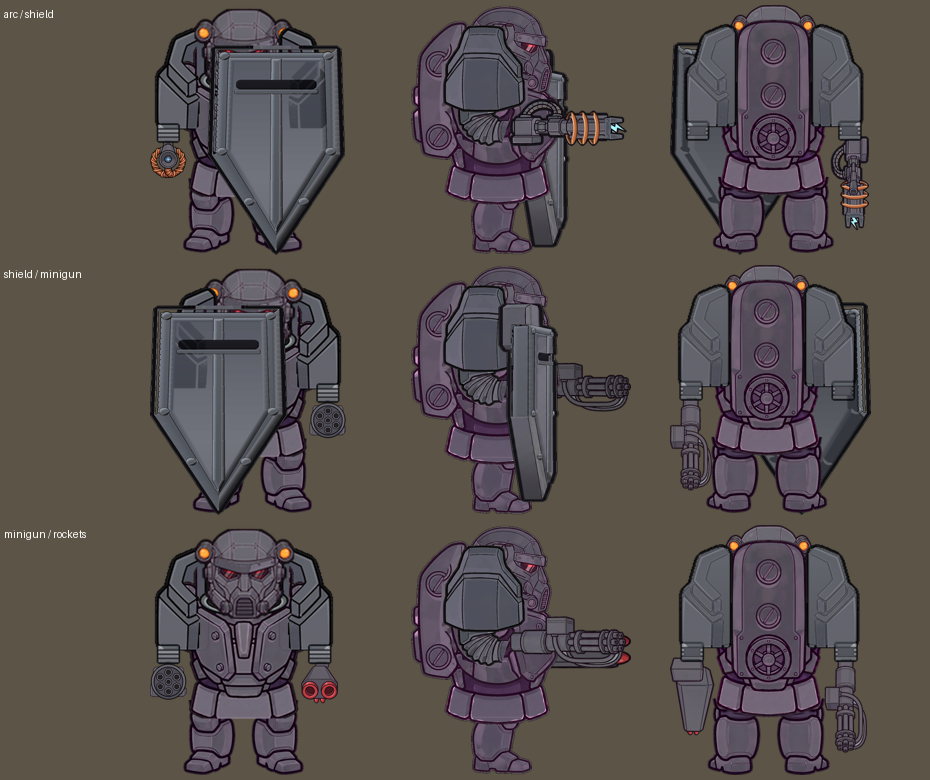
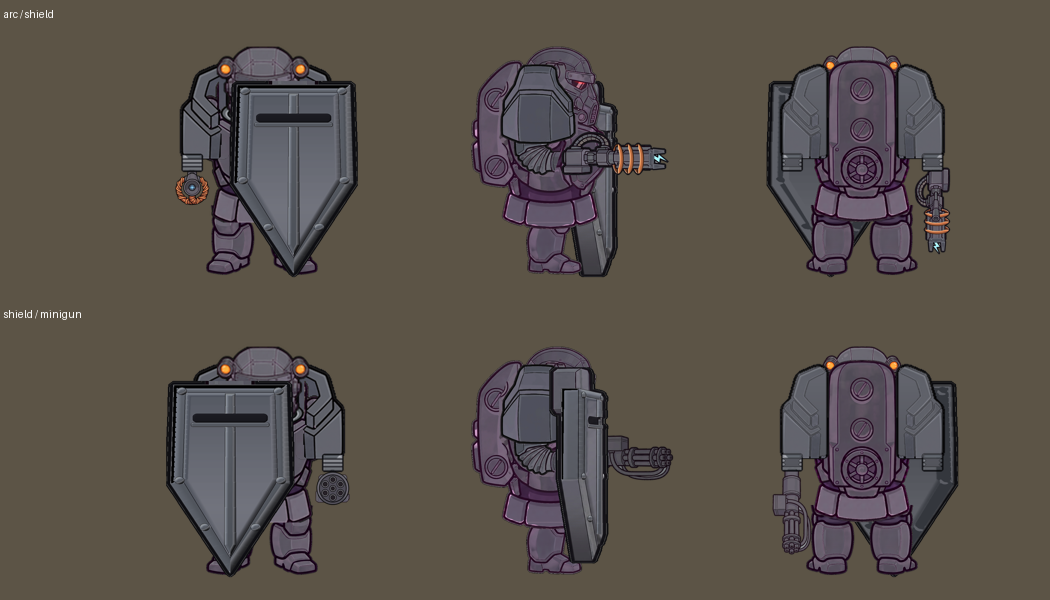
Bulwark shield: lamps clear of the plate, solid shield with its own paint mask, side view aligned
Claude-Session: https://claude.ai/code/session_01GM4XsNt8FF8EEgy8oUJDKj

diff --git a/Source/Art/suit_kit.py b/Source/Art/suit_kit.py
@@ -131,11 +131,15 @@ class Layer:
 def shield_part(path, top, bottom, widen=1.35):
     """a tower shield sized to stand from `top` to `bottom` (canvas px), made wider than the painting"""
     wt, wm = part(path)
+    ta = np.array(wt); solid = ndimage.binary_fill_holes(ta[..., 3] > 40)     # a shield is solid: no see-through face
+    edge = ndimage.binary_dilation(solid, iterations=3) & ~solid                # and a solid outline, no soft gap
+    ta[edge] = (14, 14, 18, 255); ta[..., 3] = np.where(solid | edge, 255, 0); wt = Image.fromarray(ta)
     a = np.array(wt)[..., 3] > 100; widths = a.sum(1); full = widths.max()
     start = int(np.argmax(widths > full * 0.6))            # drop the narrow mounting block on top
     wt, wm = wt.crop((0, start, wt.width, wt.height)), wm.crop((0, start, wm.width, wm.height))
     h = bottom - top; w = int(wt.width * h / wt.height * widen)
-    return wt.resize((w, h), Image.LANCZOS), wm.resize((w, h), Image.LANCZOS)
+    wt = wt.resize((w, h), Image.LANCZOS); a = np.array(wt); a[..., 3] = np.where(a[..., 3] > 60, 255, 0)
+    return Image.fromarray(a), wm.resize((w, h), Image.LANCZOS)
 
 
 def bbox(im):
@@ -213,7 +217,8 @@ def build(spec, out):
         ey = ab[1] + int((ab[3] - ab[1]) * 0.80)                   # the elbow, at the end of the ribbed hose
         if wname in spec.get('shields', ()):
             feet = bbox(pieces[('Legs', 'south')].tex)[3]
-            A_.put(shield_part(spec['weapons_east'][wname], ab[1] + 40, feet + 6, widen=1.6), ab[2] + 4, top=ab[1] + 40)
+            st0 = plL_bb[1] + 40                                     # same top as in the front and back views
+            A_.put(shield_part(spec['weapons_east'][wname], st0, feet + 6, widen=1.6), ab[2] + 4, top=st0)
         else:
             wt, wm = part(spec['weapons_east'][wname]); wt, wm = wt.rotate(90, expand=True), wm.rotate(90, expand=True)
             ln = int(spec['weapon_h'][wname] * K * 1.05); h = max(1, round(wt.height * ln / wt.width))
@@ -223,7 +228,8 @@ def build(spec, out):
         # the far arm: drawn behind everything, a little higher; only what sticks out past the body shows
         F_ = Layer(); far = spec['weapon_r']; feet = bbox(pieces[('Legs', 'south')].tex)[3]
         if far in spec.get('shields', ()):
-            F_.put(shield_part(spec['weapons_east'][far], ab[1] + 20, feet - 14, widen=1.6), ab[2] + 26, top=ab[1] + 20)
+            st0 = plL_bb[1] + 40
+            F_.put(shield_part(spec['weapons_east'][far], st0, feet + 6, widen=1.6), ab[2] + 26, top=st0)
         else:
             wt, wm = part(spec['weapons_east'][far]); wt, wm = wt.rotate(90, expand=True), wm.rotate(90, expand=True)
             ln = int(spec['weapon_h'][far] * K * 0.98); h = max(1, round(wt.height * ln / wt.width))
@@ -341,7 +347,14 @@ def build(spec, out):
                 if wname in spec.get('shields', ()):
                     pt = np.array(P.tex); pt[hole, 3] = 0; pm_ = np.array(P.mask); pm_[hole] = 0
                     S_ = Layer(); S_.tex = Image.fromarray(pt); S_.mask = Image.fromarray(np.where(pt[..., 3] > 100, pm_, 0).astype(np.uint8))
-                    S_.tex.alpha_composite(N.tex); S_.mask = Image.fromarray(np.maximum(np.array(S_.mask), np.array(N.mask)).astype(np.uint8))
+                    # the arm draws above the head for the shield; its plate must stay under the helmet
+                    helm_a = np.array(pieces[('Helmet', 'south')].tex)[..., 3] > 100
+                    under = helm_a & ~(np.array(N.tex)[..., 3] > 100)
+                    st_ = np.array(S_.tex); st_[under, 3] = 0; S_.tex = Image.fromarray(st_)
+                    sm_ = np.array(S_.mask); sm_[under] = 0; S_.mask = Image.fromarray(sm_)
+                    S_.tex.alpha_composite(N.tex)
+                    over = np.array(N.tex)[..., 3] > 20                    # over the shield only the shield's own paint
+                    S_.mask = Image.fromarray(np.where(over, np.array(N.mask), np.array(S_.mask)).astype(np.uint8))
                     pieces[(p_, 'south')] = S_; continue
                 pt = np.array(P.tex); pt[hole, 3] = 0; pm_ = np.array(P.mask); pm_[hole] = 0
                 N.tex.alpha_composite(Image.fromarray(pt)); N.mask = Image.fromarray(np.maximum(np.array(N.mask), np.where(pt[..., 3] > 100, pm_, 0)).astype(np.uint8))
